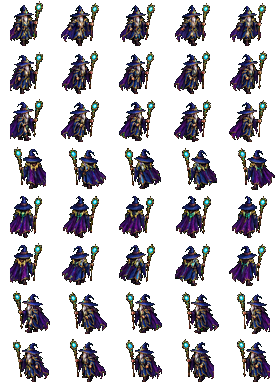
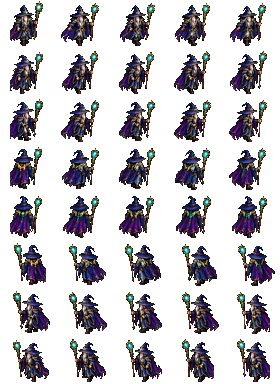
Переливающиеся воронки в порталах, Аурелион вверх-вправо/влево, автоумения и порядок умений в автобое
- Проём арок порталов (данжи, опасные данжи, выход) — вращающаяся спираль цвета портала вместо сплошной заливки.
- Аурелион: ряды ходьбы «вверх-вправо» и «вверх-влево» были перепутаны — поменяны местами.
- Меню → «Умения: авто и порядок»: у каждого умения ⚡ (само по перезарядке, пока герой бьёт цель)
  и ⚔ (использовать в автобое), порядок стрелками. Своё для каждого героя, значок «A» на кнопке.
  Оффлайн-автобой на сервере берёт тот же порядок и выбор.

Claude-Session: https://claude.ai/code/session_01E73Aa6Ky3LhDQAqfWhqYiQ

diff --git a/public/js/game.js b/public/js/game.js
@@ -631,11 +631,14 @@ window.GameScene = class GameScene extends Phaser.Scene {
         }
         // Проём арки целиком залит цветом портала (по форме проёма, без овала и обводки) и мягко «дышит»
         const fillKey = art && this.portalFill(`ptl_${z.theme}_${o.pk && this.textures.exists(`ptl_${z.theme}_pk`) ? 'pk' : o.world ? 'boss' : o.id === 'exit' ? 'exit' : 'arch'}`);
-        const glowAt = fillKey ? keep(this.add.image(o.x, o.y + 26, fillKey).setOrigin(0.5, 1).setTint(col).setAlpha(0.8).setDepth(10 + o.y + 19)) : null;
+        // Внутри проёма — переливающаяся воронка цвета портала (кадры спирали), как у врат босса и порталов города
+        const swKey = fillKey && this.portalSwirl(fillKey, col);
+        const glowAt = swKey ? keep(this.add.sprite(o.x, o.y + 26, swKey, 0).setOrigin(0.5, 1).setAlpha(0.92).setDepth(10 + o.y + 19).play(swKey))
+          : fillKey ? keep(this.add.image(o.x, o.y + 26, fillKey).setOrigin(0.5, 1).setTint(col).setAlpha(0.8).setDepth(10 + o.y + 19)) : null;
         const swirl = glowAt || keep(this.add.ellipse(o.x, o.y + 2, 38, 46, col, 0.55).setStrokeStyle(3, 0xffffff, 0.7).setDepth(10 + o.y));
         if (glowAt) keep(this.add.zone(o.x, o.y + 2, 40, 50).setInteractive().on('pointerdown', (ptr) => { if (!this.uiBlocked(ptr)) this.goTo(o); }));
         else swirl.setInteractive().on('pointerdown', (ptr) => { if (!this.uiBlocked(ptr)) this.goTo(o); });
-        if (glowAt) this.tweens.add({ targets: glowAt, alpha: 0.55, duration: 1100, yoyo: true, repeat: -1, ease: 'Sine.easeInOut' });
+        if (glowAt) this.tweens.add({ targets: glowAt, alpha: swKey ? 0.75 : 0.55, duration: 1100, yoyo: true, repeat: -1, ease: 'Sine.easeInOut' });
         else {
           const core = keep(this.add.ellipse(o.x, o.y + 2, 18, 26, 0xffffff, 0.5).setDepth(10 + o.y + 1));
           this.tweens.add({ targets: swirl, scaleX: 0.8, duration: 700, yoyo: true, repeat: -1, ease: 'Sine.easeInOut' });
@@ -687,6 +690,45 @@ window.GameScene = class GameScene extends Phaser.Scene {
     if (rows < 8) return null;
     cx.clearRect(0, 0, W, H); cx.putImageData(mask, 0, 0);
     this.textures.addCanvas(out, cv);
+    return out;
+  }
+
+  // Воронка в проёме арки: 12 кадров вращающейся спирали цвета портала (тёмные и светлые рукава, светлая середина),
+  // по форме маски portalFill. Кадры рисуются один раз на арку и цвет, дальше — обычная анимация спрайта
+  portalSwirl(maskKey, col) {
+    const out = `pswirl_${maskKey}_${col.toString(16)}`;
+    if (this.textures.exists(out)) return out;
+    const src = this.textures.get(maskKey).getSourceImage(), W = src.width, H = src.height, N = 12;
+    const mc = document.createElement('canvas'); mc.width = W; mc.height = H;
+    const mx = mc.getContext('2d'); mx.drawImage(src, 0, 0);
+    let m; try { m = mx.getImageData(0, 0, W, H).data; } catch { return null; }
+    let x0 = W, x1 = 0, y0 = H, y1 = 0;
+    for (let y = 0; y < H; y++) for (let x = 0; x < W; x++) if (m[(y * W + x) * 4 + 3] > 0) { if (x < x0) x0 = x; if (x > x1) x1 = x; if (y < y0) y0 = y; if (y > y1) y1 = y; }
+    if (x1 <= x0) return null;
+    const cxp = (x0 + x1) / 2, cyp = y0 + (y1 - y0) * 0.45, R = Math.max(x1 - x0, y1 - y0) / 2 || 1;
+    const r0 = (col >> 16) & 255, g0 = (col >> 8) & 255, b0 = col & 255;
+    const cv = document.createElement('canvas'); cv.width = W * N; cv.height = H;
+    const cx = cv.getContext('2d'), img = cx.createImageData(W * N, H), d = img.data;
+    for (let f = 0; f < N; f++) {
+      const ph = (f / N) * Math.PI * 2;
+      for (let y = y0; y <= y1; y++) for (let x = x0; x <= x1; x++) {
+        if (!m[(y * W + x) * 4 + 3]) continue;
+        const dx = (x - cxp) / R, dy = (y - cyp) / R * 1.15, r = Math.hypot(dx, dy), a = Math.atan2(dy, dx);
+        const arm = 0.5 + 0.5 * Math.sin(a * 3 + r * 9 - ph * 1); // три рукава спирали
+        const shim = 0.5 + 0.5 * Math.sin(r * 14 + ph * 2); // бегущие к центру кольца
+        const core = Math.max(0, 1 - r * 1.4); // светлая середина
+        let k = 0.28 + arm * 0.5 + shim * 0.12 + core * 0.55; // 0 — тёмный цвет портала, 1 — почти белый
+        k = Math.min(1.25, k);
+        const mix = (c) => (k <= 0.75 ? c * (0.35 + k * 0.87) : c + (255 - c) * ((k - 0.75) / 0.5) * 0.85);
+        const i = (y * W * N + f * W + x) * 4;
+        d[i] = Math.min(255, mix(r0)); d[i + 1] = Math.min(255, mix(g0)); d[i + 2] = Math.min(255, mix(b0));
+        d[i + 3] = 235;
+      }
+    }
+    cx.putImageData(img, 0, 0);
+    const tex = this.textures.addCanvas(out, cv);
+    for (let f = 0; f < N; f++) tex.add(f, 0, f * W, 0, W, H);
+    if (!this.anims.exists(out)) this.anims.create({ key: out, frames: Array.from({ length: N }, (_, f) => ({ key: out, frame: f })), frameRate: 10, repeat: -1 });
     return out;
   }
 
@@ -2723,6 +2765,22 @@ window.GameScene = class GameScene extends Phaser.Scene {
     if (window.Sfx) Sfx.play(proj ? 'shoot' : 'hit', { pitch: 0.9 + Math.random() * 0.2 });
   }
 
+  // Умения героя по настройке игрока: порядок и флаги (Settings.skillCfg[герой]). Переключатели облика/стихии
+  // (бесплатные) в автоматику не входят. mode 'af' — для автобоя (все, кроме выключенных), 'auto' — само по перезарядке
+  skillPlan(heroId) {
+    const skills = (this.heroes[heroId] || {}).skills || [], cfg = (Settings.get('skillCfg') || {})[heroId] || {};
+    const ord = (cfg.order || []).filter((id) => skills.some((s) => s.id === id));
+    const list = [...ord, ...skills.map((s) => s.id).filter((id) => !ord.includes(id))].map((id) => skills.find((s) => s.id === id));
+    return list.map((s) => ({ s, idx: skills.indexOf(s), toggle: s.cost === 0 && s.costLabel === 'бесплатно', auto: !!(cfg.auto || {})[s.id], af: !(cfg.off || {})[s.id] }));
+  }
+  readySkill(mode) {
+    const me = this.me, st = this.myStats || {};
+    const row = this.skillPlan(me.data.hero).find((x) => !x.toggle && x.idx < (st.unlocked ?? 1) && (mode === 'af' ? x.af : x.auto)
+      && (st.res === undefined || st.res >= (x.s.cost || 0)) && this.ui.skillReady && this.ui.skillReady(x.s.id)
+      && performance.now() >= ((this.skillReady || {})[x.s.id] || 0));
+    return row ? row.s : null;
+  }
+
   autoFarmTick(time) {
     const me = this.me, range = this.prof().range;
     const skip = this.afSkip || (this.afSkip = new Map()); // недостижимые цели (за стенами лабиринта): id → до какого времени не брать
@@ -2755,9 +2813,7 @@ window.GameScene = class GameScene extends Phaser.Scene {
       // Умения: готовые по перезарядке и ресурсу; переключатели облика/стихии/обета не трогаем
       if (d <= range + 20 && time > (this.afSkillAt || 0) && this.lineOfSight(me.x, me.y, t.c.x, t.c.y)) {
         this.afSkillAt = time + 450;
-        const skills = this.heroes[me.data.hero].skills, st = this.myStats || {};
-        const sk = skills.find((s, i) => i < (st.unlocked ?? 1) && !(s.cost === 0 && s.costLabel === 'бесплатно')
-          && (st.res === undefined || st.res >= (s.cost || 0)) && this.ui.skillReady && this.ui.skillReady(s.id));
+        const sk = this.readySkill('af'); // порядок и выбор умений — из настройки «Умения: авто и порядок»
         if (sk) this.input_.skill = sk.id;
       }
       return;
@@ -3244,6 +3300,14 @@ window.GameScene = class GameScene extends Phaser.Scene {
     }
 
     if (this.input_.attack || this.keys.SPACE.isDown || this.autoWalk || this.autoFarm) this.tryAttack(false);
+    // Авто по перезарядке: пока герой бьёт цель (удар был меньше 2,5 с назад), отмеченные умения срабатывают сами
+    const acT = this.targetId && this.monsters.get(this.targetId);
+    if (!this.autoFarm && !me.data.dead && !this.input_.skill && this.lastAttack && this.time.now - this.lastAttack < 2500 && this.time.now > (this.acSkillAt || 0)
+      && acT && acT.data && acT.data.hp > 0 && !acT.killAt && Math.hypot(acT.c.x - me.x, acT.c.y - me.y) <= this.prof().range + 30) {
+      this.acSkillAt = this.time.now + 400;
+      const sk = this.readySkill('auto');
+      if (sk) this.input_.skill = sk.id;
+    }
     // Умения: кнопки HUD или клавиши Q / E / R
     const skills = this.heroes[me.data.hero].skills;
     let skillId = this.input_.skill;

diff --git a/public/js/main.js b/public/js/main.js
@@ -493,7 +493,15 @@
       box.appendChild(b);
       skillBtns[sk.id] = { el: b, cd: b.querySelector('.sk-cd'), timer: 0, sk, idx: i };
     });
+    markAutoSkills(hero.id);
   }
+  // Значок «A» на кнопке умения, которое срабатывает само по перезарядке; настройка уходит на сервер (оффлайн-автобой)
+  function markAutoSkills(heroId) {
+    const cfg = (Settings.get('skillCfg') || {})[heroId] || {};
+    for (const b of Object.values(skillBtns)) b.el.classList.toggle('auto-sk', !!(cfg.auto || {})[b.sk.id]);
+    if (socket) socket.emit('skillCfg', { hero: heroId, order: cfg.order || [], off: Object.keys(cfg.off || {}).filter((k) => cfg.off[k]) });
+  }
+  window.markAutoSkills = markAutoSkills;
   function startSkillCd(id, ms, total = ms) {
     // Точное время готовности от сервера: нажатие на перезарядке — без звука и надписи (см. game.js → predictSkill)
     if (window.gameScene) (window.gameScene.skillReady ??= {})[id] = performance.now() + Math.max(0, ms) - 120;
@@ -865,6 +873,41 @@
         if (!r || !r.ref || !r.ref.code) { Town.toast('Приглашения доступны в игре через Telegram'); return; }
         Town.open('👥 Пригласить друга', Invite.panel(r.ref));
       };
+      // ---------- Умения: авто по перезарядке, порядок и выбор для автобоя (своя настройка у каждого героя) ----------
+      const openSkillCfg = () => {
+        const sc = window.gameScene, heroId = sc && sc.me && sc.me.data.hero;
+        if (!heroId) return;
+        const all = Settings.get('skillCfg') || {}, cfg = all[heroId] || (all[heroId] = {});
+        cfg.auto ??= {}; cfg.off ??= {};
+        const save = () => { Settings.set('skillCfg', { ...all, [heroId]: cfg }); markAutoSkills(heroId); };
+        const box = document.createElement('div');
+        const draw = () => {
+          const plan = sc.skillPlan(heroId), unl = (sc.myStats || {}).unlocked ?? 1;
+          cfg.order = plan.map((x) => x.s.id);
+          box.innerHTML = `<p class="sheet-hint">⚡ Авто — умение срабатывает само по перезарядке, пока герой бьёт цель. ⚔ Автобой — использовать в автобое (и оффлайн). Порядок сверху вниз — кто первый, когда готовы несколько. Переключатели облика и стихии жмите сами.</p>
+            ${plan.map((x, i) => `<div class="tw-ev sk-cfg ${x.idx < unl ? '' : 'locked'}" data-id="${x.s.id}">
+              <span class="sk-cfg-ic">${SkillArt.icon(heroId, x.idx, x.s.icon)}</span>
+              <div><b>${i + 1}. ${x.s.name}</b><small>${x.idx < unl ? `перезарядка ${Math.round((x.s.cooldown || 0) / 100) / 10} с` : 'ещё закрыто'}${x.toggle ? ' · переключатель' : ''}</small></div>
+              <div class="btn-row">
+                <button class="l2-btn sm" data-op="up" ${i ? '' : 'disabled'}>▲</button><button class="l2-btn sm" data-op="down" ${i < plan.length - 1 ? '' : 'disabled'}>▼</button>
+                ${x.toggle ? '' : `<button class="l2-btn sm ${x.auto ? 'on' : ''}" data-op="auto">⚡</button><button class="l2-btn sm ${x.af ? 'on' : ''}" data-op="af">⚔</button>`}
+              </div></div>`).join('')}
+            <button class="l2-btn wide" data-op="reset">Сбросить по умолчанию</button>`;
+        };
+        box.onclick = (e) => {
+          const b = e.target.closest('button[data-op]'); if (!b) return;
+          const op = b.dataset.op, id = b.closest('[data-id]') && b.closest('[data-id]').dataset.id, i = cfg.order.indexOf(id);
+          if (op === 'reset') { cfg.order = []; cfg.auto = {}; cfg.off = {}; }
+          else if (op === 'up' && i > 0) [cfg.order[i - 1], cfg.order[i]] = [cfg.order[i], cfg.order[i - 1]];
+          else if (op === 'down' && i < cfg.order.length - 1) [cfg.order[i + 1], cfg.order[i]] = [cfg.order[i], cfg.order[i + 1]];
+          else if (op === 'auto') cfg.auto[id] = !cfg.auto[id];
+          else if (op === 'af') cfg.off[id] = !cfg.off[id];
+          save(); draw();
+        };
+        draw();
+        Town.open('⚡ Умения: авто и порядок', box);
+      };
+      window.openSkillCfg = openSkillCfg;
       // ---------- Карта мира: города и места с метками сюжета (📖), поручителей (❗ ❓ …), друзей и «вы здесь» ----------
       const openWorldMap = async () => {
         const r = await Bag.act('worldMap');
@@ -1222,6 +1265,7 @@
                 if (autoOn) socket.emit('autofarm', false); // иначе герой не выходит из боя, а в бою телепорт запрещён
                 socket.emit('recall');
               }]] : []),
+              ['auto', 'Умения: авто и порядок', 'Само по перезарядке, порядок в автобое', () => openSkillCfg()],
               ['teleport', 'Карта мира', 'Города, данжи и куда идти по заданиям', () => openWorldMap()],
             ], true],
             ['🧙 Герой и группа', [

diff --git a/server/afbot.js b/server/afbot.js
@@ -1,7 +1,8 @@
 // Автобой без игрока: герой, оставленный в данже с включённым автобоем, фармит сам.
 // Сервер вызывает обработчики настоящего сокета героя (move / attack / skill / act) — те же проверки, что у игрока
 // (скорость, стены, перезарядки, ресурс), поэтому бот не сильнее живого игрока. Путь по лабиринту — поиск в ширину по клеткам.
-module.exports = function createAfBot({ C, world, players, monsters, SOLID }) {
+module.exports = function createAfBot({ C, world, players, monsters, SOLID, getProfile }) {
+  const deps = { getProfile };
   const TILE = C.TILE, solid = new Set(SOLID);
   const call = (p, ev, d, cb) => { const f = p.afBot && p.afBot.sock.listeners(ev)[0]; if (f) { try { f(d, cb || (() => {})); } catch (e) { console.error('afbot', ev, e.message); } } };
   const tileOf = (z, x, y) => [Math.floor((x - z.ox) / TILE), Math.floor((y - z.oy) / TILE)];
@@ -65,8 +66,12 @@ module.exports = function createAfBot({ C, world, players, monsters, SOLID }) {
       // Умения — по очереди, когда готовы (сервер сам откажет, если перезарядка или нет ресурса)
       if (now - (b.skAt || 0) > 900) {
         b.skAt = now;
-        const sk = p.hero.skills.slice(0, p.unlocked || 1);
-        const s = sk[(b.skI = ((b.skI || 0) + 1) % sk.length)];
+        // Порядок и выбор умений — из настройки игрока (окно «Умения: авто и порядок»); переключатели не трогаем
+        const open = p.hero.skills.slice(0, p.unlocked || 1).filter((x) => !(x.cost === 0 && x.costLabel === 'бесплатно'));
+        const cfg = (deps.getProfile(p.uid).skillCfg || {})[p.heroId] || {}, off = new Set(cfg.off || []), ord = cfg.order || [];
+        const rank = (x) => { const i = ord.indexOf(x.id); return i < 0 ? 100 + p.hero.skills.indexOf(x) : i; };
+        const sk = open.filter((x) => !off.has(x.id)).sort((a, c) => rank(a) - rank(c));
+        const s = sk.find((x) => now >= ((p.skillReadyAt || {})[x.id] || 0) && (p.res === undefined || p.res >= (x.cost || 0)));
         if (s) call(p, 'skill', { id: s.id, targetId: m.id, x: m.x, y: m.y });
       }
       b.movedAt = now; b.path = null;

diff --git a/server/index.js b/server/index.js
@@ -693,7 +693,7 @@ const chatHistory = (() => { try { const a = store.readJSON('chat.json', []); re
 let chatSaveTm = null;
 const chatSave = () => { clearTimeout(chatSaveTm); chatSaveTm = setTimeout(() => { try { store.writeJSON('chat.json', chatHistory); } catch (e) { console.error('chat save', e.message); } }, 3000); };
 const monsters = new Map(); // id -> monster
-const AfBot = require('./afbot')({ C, world, players, monsters, SOLID: require('./world').SOLID }); // автобой без игрока
+const AfBot = require('./afbot')({ C, world, players, monsters, SOLID: require('./world').SOLID, getProfile: (uid) => getProfile(uid) }); // автобой без игрока
 const pets = new Map(); // id -> зверь-спутник (Урсус)
 let monsterSeq = 1;
 let fx = []; // события за тик (удары, снаряды, смерти)
@@ -2633,6 +2633,15 @@ io.on('connection', (socket) => {
       p.party = pt.id;
       sendParty(pt);
     } else if (d.op === 'leave') leaveParty(p);
+  });
+
+  // Настройка умений героя для оффлайн-автобоя: порядок и выключенные (клиент шлёт при входе и при изменении)
+  socket.on('skillCfg', (d = {}) => {
+    const p = players.get(socket.id);
+    if (!p || !d || typeof d.hero !== 'string' || !C.HEROES[d.hero]) return;
+    const ids = new Set(C.HEROES[d.hero].skills.map((s) => s.id));
+    const pr = getProfile(p.uid); pr.skillCfg ??= {};
+    pr.skillCfg[d.hero] = { order: (Array.isArray(d.order) ? d.order : []).filter((x) => ids.has(x)).slice(0, 12), off: (Array.isArray(d.off) ? d.off : []).filter((x) => ids.has(x)).slice(0, 12) };
   });
 
   // Друзья (до 50): заявка → принять. Телепорт к другу онлайн — если ни он, ни вы не флагнуты (розовый/красный)

diff --git a/public/css/style.css b/public/css/style.css
@@ -1609,3 +1609,11 @@ canvas.skin { object-fit: contain; }
 .wm-c.npc { background: rgba(255,200,60,.15); color: #ffd23a; }
 .wm-c.fr { background: rgba(120,255,140,.15); color: #b8ffbf; }
 .fr-add input { flex: 1; min-width: 0; }
+/* Автоумения: значок «A» на кнопке и окно настройки */
+.skill.auto-sk:not(.locked)::after { content: 'A'; position: absolute; top: -3px; right: -3px; width: 15px; height: 15px; border-radius: 50%; background: #ffd23a; color: #2a1a08; font: bold 10px/15px Georgia, serif; text-align: center; box-shadow: 0 0 4px rgba(255,210,58,.8); pointer-events: none; }
+.sk-cfg .sk-cfg-ic { width: 34px; height: 34px; flex: none; display: flex; align-items: center; justify-content: center; font-size: 22px; }
+.sk-cfg .sk-cfg-ic img { width: 34px; height: 34px; border-radius: 6px; }
+.sk-cfg.locked { opacity: .5; }
+.sk-cfg .btn-row { flex: none; gap: 3px; }
+.l2-btn.sm { min-width: 0; padding: 4px 7px; font-size: 13px; }
+.l2-btn.sm.on { background: linear-gradient(#6a5a18, #3e3208); border-color: #ffd23a; box-shadow: 0 0 5px rgba(255,210,58,.5); }

diff --git a/public/js/skins.js b/public/js/skins.js
@@ -97,7 +97,7 @@ window.Skins = (() => {
       beast: { sheet: 'assets/heroes/taliesin_beast.png', w: 60, h: 50, down: [0, 1, 2, 3, 4], side: [5, 6, 7, 8, 9], up: [10, 11, 12, 13, 14], attack: [15, 16, 17, 18, 19] },
     },
     aurelius: {
-      sheet: 'assets/heroes/aurelius_sheet.png', portrait: 'assets/heroes/aurelius_portrait.png', w: 56, h: 48, frames: 5,
+      sheet: 'assets/heroes/aurelius_sheet.png?v=2', portrait: 'assets/heroes/aurelius_portrait.png', w: 56, h: 48, frames: 5,
       // Атака: 7 рядов — 5 направлений, второй каст и поза умения (последний)
       attack: { sheet: 'assets/heroes/aurelius_attack.png', w: 72, h: 60, frames: 5, rows: 7, cast: 6 },
       // По стихиям (fire/ice/lightning/earth): снаряд, шторм, вспышка попадания и кольцо ауры

diff --git a/public/js/settings.js b/public/js/settings.js
@@ -10,6 +10,7 @@ window.Settings = (() => {
     ctrlSize: 100, ctrlOpacity: 100, leftHand: false, // размер и прозрачность кнопок управления (%), джойстик справа
     autoPot: true, autoPotAt: 35, // автозелье: пить само, когда здоровья меньше autoPotAt %
     lang: null, // язык; null — по языку Telegram или браузера
+    skillCfg: {}, // умения по героям: { герой: { order: [id…], auto: { id: true } — само по перезарядке, off: { id: true } — не в автобое } }
   };
   let cur = { ...DEF };
   try { Object.assign(cur, JSON.parse(localStorage.getItem('settings') || '{}')); } catch (e) { /* без хранилища */ }
